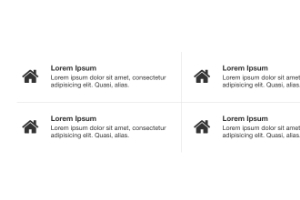
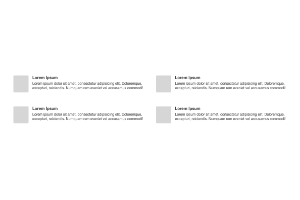
Add new widget.

Changed region(s): [[0.03, 0.51, 1.0, 0.69], [0.03, 0.33, 1.0, 0.48]]

diff --git a/ContentFeatures/widget.html b/ContentFeatures/widget.html
@@ -1,25 +1,23 @@
 <style>
-	.wc114 { padding: 0 20px; margin-bottom: 20px; }
-	.wc114-item { border-left: 1px solid #E0E0E0; padding: 25px 0 5px; min-height: 110px; overflow: hidden; }
-	.wc114-icon { float: left; width: 90px; font-size: 40px; text-align: center; }
-	.wc114-icon .fa { padding-top: 5px; }
-	.wc114-text { margin-left: 90px; padding-right: 10px; line-height: 16px; }
-	.wc114-item h3 { font-size: 16px; margin: 2px 0 5px; }
-	.wc114-item p { margin: 0 0 20px; line-height: 16px; }
-	.wc114 .col-sm-4:first-child { border-left: 0; }
-	.wc114 hr { margin: 0; border-color: #E0E0E0; }
-	.wc114-icon img { width: 60px; height: 60px; border-radius: 3px; }
+	.wc126 { padding: 0 20px; margin-bottom: 20px; }
+	.wc126-item { padding: 0 0 5px; min-height: 110px; overflow: hidden; }
+	.wc126-icon { float: left; width: 90px; font-size: 40px; text-align: center; }
+	.wc126-icon .fa { padding-top: 5px; }
+	.wc126-text { margin-left: 90px; padding-right: 10px; line-height: 16px; }
+	.wc126-item h3 { font-size: 16px; margin: 2px 0 5px; }
+	.wc126-item p { margin: 0 0 20px; line-height: 16px; }
+	.wc126 .col-sm-4:first-child { border-left: 0; }
+	.wc126-icon img { width: 60px; height: 60px; border-radius: 3px; }
 
 	@media(max-width: 980px) and (min-width: 768px) {
-		.wc114-icon { float: none; text-align: left; padding: 0 20px; }
-		.wc114-text { padding: 10px 20px 0; margin: 0; font-size: 12px; }
-		.wc114-text h3 { font-size: 14px; }
-		.wc114-item { min-height: 200px; }
+		.wc126-icon { float: none; text-align: left; padding: 0 20px; }
+		.wc126-text { padding: 10px 20px 0; margin: 0; font-size: 12px; }
+		.wc126-text h3 { font-size: 14px; }
 	}
 
 	@media(max-width: 768px) {
-		.wc114-item { border: 0; border-bottom: 1px solid #E0E0E0; }
-		.wc114 hr { border: 0; }
+		.wc126-item { border: 0; border-bottom: 1px solid #E0E0E0; }
+		.wc126 hr { border: 0; }
 	}
 </style>
 
@@ -30,7 +28,7 @@
 	exports.configure = function(options, el) {
[1 lines of base64/hex data omitted]
 		var icon = '<i class="fa fa-home CMS_edit"></i>';
-		el.find('.wc114-icon').each(function() {
+		el.find('.wc126-icon').each(function() {
 			var el = $(this);
 			var fa = el.find('.fa');
 			if (options.type === 'icons') {
@@ -43,63 +41,44 @@
 
 </script>
 
-<div class="wmargin wpadding wc114">
-	<div class="row">
-		<div class="col-sm-4 wc114-item">
-			<div class="wc114-icon">
+<div class="wmargin wpadding wc126">
+	<div class="row CMS_repeat">
+		<div class="col-sm-6 wc126-item">
+			<div class="wc126-icon">
 				<i class="fa fa-home CMS_edit"></i>
 			</div>
-			<div class="wc114-text CMS_widgets" data-cms-category="Inline">
+			<div class="wc126-text CMS_widgets" data-cms-category="Inline">
 				<h3 class="CMS_edit">Lorem Ipsum</h3>
-				<p class="CMS_edit">Lorem ipsum dolor sit amet, consectetur adipisicing elit. Quasi, alias.</p>
+				<p class="CMS_edit">Lorem ipsum dolor sit amet, consectetur adipisicing elit. Doloremque, excepturi, reiciendis. Numquam rem eveniet vel accusamus commodi!</p>
 			</div>
 		</div>
-		<div class="col-sm-4 wc114-item">
-			<div class="wc114-icon">
+		<div class="col-sm-6 wc126-item">
+			<div class="wc126-icon">
 				<i class="fa fa-home CMS_edit"></i>
 			</div>
-			<div class="wc114-text CMS_widgets" data-cms-category="Inline">
+			<div class="wc126-text CMS_widgets" data-cms-category="Inline">
 				<h3 class="CMS_edit">Lorem Ipsum</h3>
-				<p class="CMS_edit">Lorem ipsum dolor sit amet, consectetur adipisicing elit. Quasi, alias.</p>
-			</div>
-		</div>
-		<div class="col-sm-4 wc114-item">
-			<div class="wc114-icon">
-				<i class="fa fa-home CMS_edit"></i>
-			</div>
-			<div class="wc114-text CMS_widgets" data-cms-category="Inline">
-				<h3 class="CMS_edit">Lorem Ipsum</h3>
-				<p class="CMS_edit">Lorem ipsum dolor sit amet, consectetur adipisicing elit. Quasi, alias.</p>
+				<p class="CMS_edit">Lorem ipsum dolor sit amet, consectetur adipisicing elit. Doloremque, excepturi, reiciendis. Numquam rem eveniet vel accusamus commodi!</p>
 			</div>
 		</div>
 	</div>
-	<hr />
-	<div class="row">
-		<div class="col-sm-4 wc114-item">
-			<div class="wc114-icon">
+	<div class="row CMS_repeat CMS_remove">
+		<div class="col-sm-6 wc126-item">
+			<div class="wc126-icon">
 				<i class="fa fa-home CMS_edit"></i>
 			</div>
-			<div class="wc114-text CMS_widgets" data-cms-category="Inline">
+			<div class="wc126-text CMS_widgets" data-cms-category="Inline">
 				<h3 class="CMS_edit">Lorem Ipsum</h3>
-				<p class="CMS_edit">Lorem ipsum dolor sit amet, consectetur adipisicing elit. Quasi, alias.</p>
+				<p class="CMS_edit">Lorem ipsum dolor sit amet, consectetur adipisicing elit. Doloremque, excepturi, reiciendis. Numquam rem eveniet vel accusamus commodi!</p>
 			</div>
 		</div>
-		<div class="col-sm-4 wc114-item">
-			<div class="wc114-icon">
+		<div class="col-sm-6 wc126-item">
+			<div class="wc126-icon">
 				<i class="fa fa-home CMS_edit"></i>
 			</div>
-			<div class="wc114-text CMS_widgets" data-cms-category="Inline">
+			<div class="wc126-text CMS_widgets" data-cms-category="Inline">
 				<h3 class="CMS_edit">Lorem Ipsum</h3>
-				<p class="CMS_edit">Lorem ipsum dolor sit amet, consectetur adipisicing elit. Quasi, alias.</p>
-			</div>
-		</div>
-		<div class="col-sm-4 wc114-item">
-			<div class="wc114-icon">
-				<i class="fa fa-home CMS_edit"></i>
-			</div>
-			<div class="wc114-text CMS_widgets" data-cms-category="Inline">
-				<h3 class="CMS_edit">Lorem Ipsum</h3>
-				<p class="CMS_edit">Lorem ipsum dolor sit amet, consectetur adipisicing elit. Quasi, alias.</p>
+				<p class="CMS_edit">Lorem ipsum dolor sit amet, consectetur adipisicing elit. Doloremque, excepturi, reiciendis. Numquam rem eveniet vel accusamus commodi!</p>
 			</div>
 		</div>
 	</div>

diff --git a/ContentFeatures2/widget.html b/ContentFeatures2/widget.html
@@ -1,0 +1,108 @@
+<style>
+	.wc114 { padding: 0 20px; margin-bottom: 20px; }
+	.wc114-item { border-left: 1px solid #E0E0E0; padding: 25px 0 5px; min-height: 110px; overflow: hidden; }
+	.wc114-icon { float: left; width: 90px; font-size: 40px; text-align: center; }
+	.wc114-icon .fa { padding-top: 5px; }
+	.wc114-text { margin-left: 90px; padding-right: 10px; line-height: 16px; }
+	.wc114-item h3 { font-size: 16px; margin: 2px 0 5px; }
+	.wc114-item p { margin: 0 0 20px; line-height: 16px; }
+	.wc114 .col-sm-4:first-child { border-left: 0; }
+	.wc114 hr { margin: 0; border-color: #E0E0E0; }
+	.wc114-icon img { width: 60px; height: 60px; border-radius: 3px; }
+
+	@media(max-width: 980px) and (min-width: 768px) {
+		.wc114-icon { float: none; text-align: left; padding: 0 20px; }
+		.wc114-text { padding: 10px 20px 0; margin: 0; font-size: 12px; }
+		.wc114-text h3 { font-size: 14px; }
+		.wc114-item { min-height: 200px; }
+	}
+
+	@media(max-width: 768px) {
+		.wc114-item { border: 0; border-bottom: 1px solid #E0E0E0; }
+		.wc114 hr { border: 0; }
+	}
+</style>
+
+<script editor>
+
+	option('type', 'Type', 'icons', ['icons', 'pictures']);
+
+	exports.configure = function(options, el) {
[1 lines of base64/hex data omitted]
+		var icon = '<i class="fa fa-home CMS_edit"></i>';
+		el.find('.wc114-icon').each(function() {
+			var el = $(this);
+			var fa = el.find('.fa');
+			if (options.type === 'icons') {
+				!fa.length && el.html(icon);
+			} else {
+				fa.length && el.html(img);
+			}
+		});
+	};
+
+</script>
+
+<div class="wmargin wpadding wc114">
+	<div class="CMS_repeat">
+		<div class="row">
+			<div class="col-sm-4 wc114-item">
+				<div class="wc114-icon">
+					<i class="fa fa-home CMS_edit"></i>
+				</div>
+				<div class="wc114-text CMS_widgets" data-cms-category="Inline">
+					<h3 class="CMS_edit">Lorem Ipsum</h3>
+					<p class="CMS_edit">Lorem ipsum dolor sit amet, consectetur adipisicing elit. Quasi, alias.</p>
+				</div>
+			</div>
+			<div class="col-sm-4 wc114-item">
+				<div class="wc114-icon">
+					<i class="fa fa-home CMS_edit"></i>
+				</div>
+				<div class="wc114-text CMS_widgets" data-cms-category="Inline">
+					<h3 class="CMS_edit">Lorem Ipsum</h3>
+					<p class="CMS_edit">Lorem ipsum dolor sit amet, consectetur adipisicing elit. Quasi, alias.</p>
+				</div>
+			</div>
+			<div class="col-sm-4 wc114-item">
+				<div class="wc114-icon">
+					<i class="fa fa-home CMS_edit"></i>
+				</div>
+				<div class="wc114-text CMS_widgets" data-cms-category="Inline">
+					<h3 class="CMS_edit">Lorem Ipsum</h3>
+					<p class="CMS_edit">Lorem ipsum dolor sit amet, consectetur adipisicing elit. Quasi, alias.</p>
+				</div>
+			</div>
+		</div>
+		<hr />
+	</div>
+	<div class="row">
+		<div class="col-sm-4 wc114-item">
+			<div class="wc114-icon">
+				<i class="fa fa-home CMS_edit"></i>
+			</div>
+			<div class="wc114-text CMS_widgets" data-cms-category="Inline">
+				<h3 class="CMS_edit">Lorem Ipsum</h3>
+				<p class="CMS_edit">Lorem ipsum dolor sit amet, consectetur adipisicing elit. Quasi, alias.</p>
+			</div>
+		</div>
+		<div class="col-sm-4 wc114-item">
+			<div class="wc114-icon">
+				<i class="fa fa-home CMS_edit"></i>
+			</div>
+			<div class="wc114-text CMS_widgets" data-cms-category="Inline">
+				<h3 class="CMS_edit">Lorem Ipsum</h3>
+				<p class="CMS_edit">Lorem ipsum dolor sit amet, consectetur adipisicing elit. Quasi, alias.</p>
+			</div>
+		</div>
+		<div class="col-sm-4 wc114-item">
+			<div class="wc114-icon">
+				<i class="fa fa-home CMS_edit"></i>
+			</div>
+			<div class="wc114-text CMS_widgets" data-cms-category="Inline">
+				<h3 class="CMS_edit">Lorem Ipsum</h3>
+				<p class="CMS_edit">Lorem ipsum dolor sit amet, consectetur adipisicing elit. Quasi, alias.</p>
+			</div>
+		</div>
+	</div>
+</div>

diff --git a/ContentFeatures2/preview.html b/ContentFeatures2/preview.html
@@ -1,0 +1,5 @@
+<br />
+<br />
+<div class="container">
+	<div id="CMS"></div>
+</div>

diff --git a/readme.md b/readme.md
@@ -7,7 +7,7 @@
 ## Last counter
 
 - layout `wl100`
-- columns/content `wc125`
+- columns/content `wc126`
 - inline `wi119`
 
 ## Good to know

diff --git a/ContentFeatures2/readme.md b/ContentFeatures2/readme.md
@@ -1,0 +1,3 @@
+# Features 2
+
+- content widget
